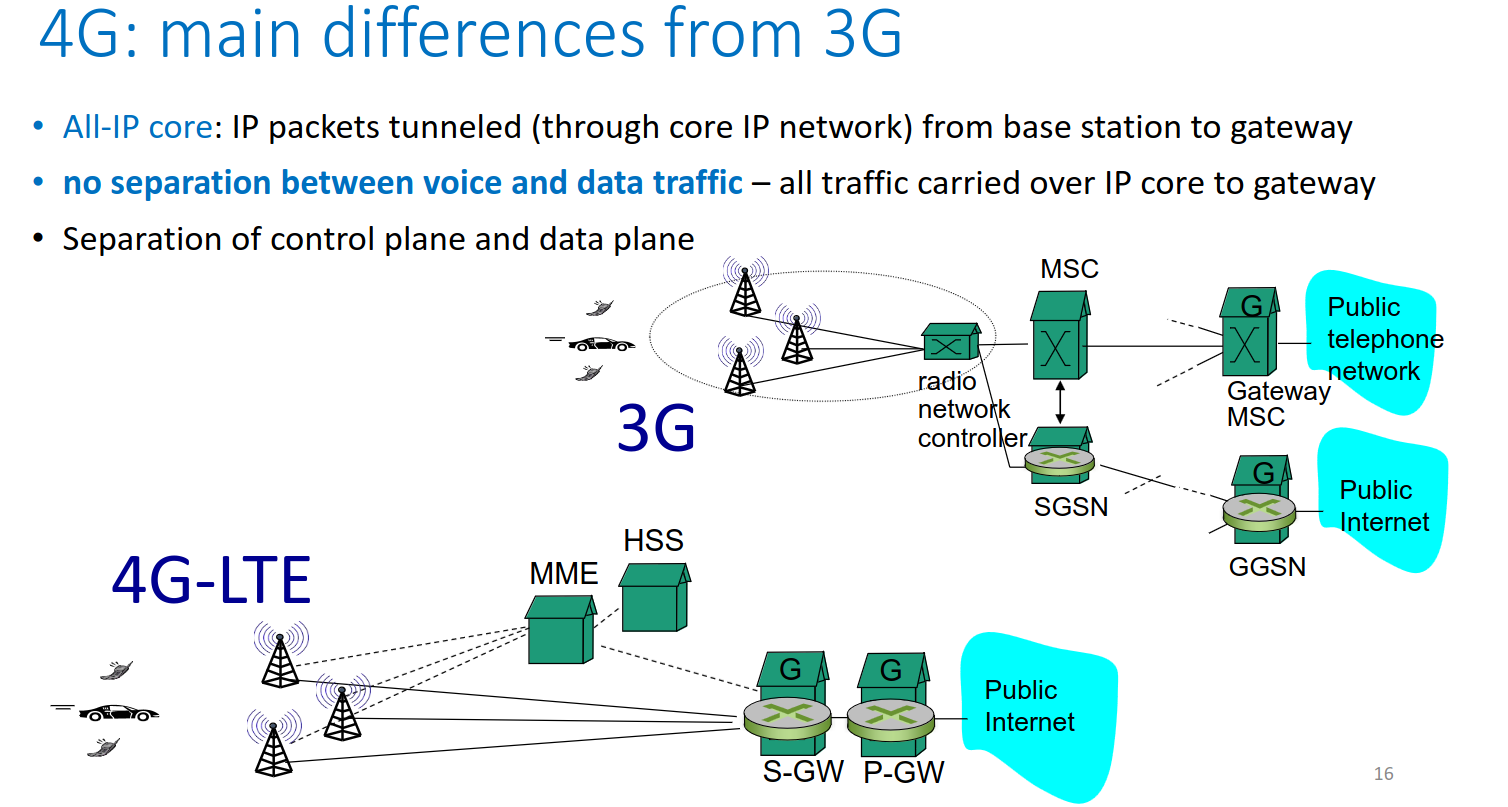
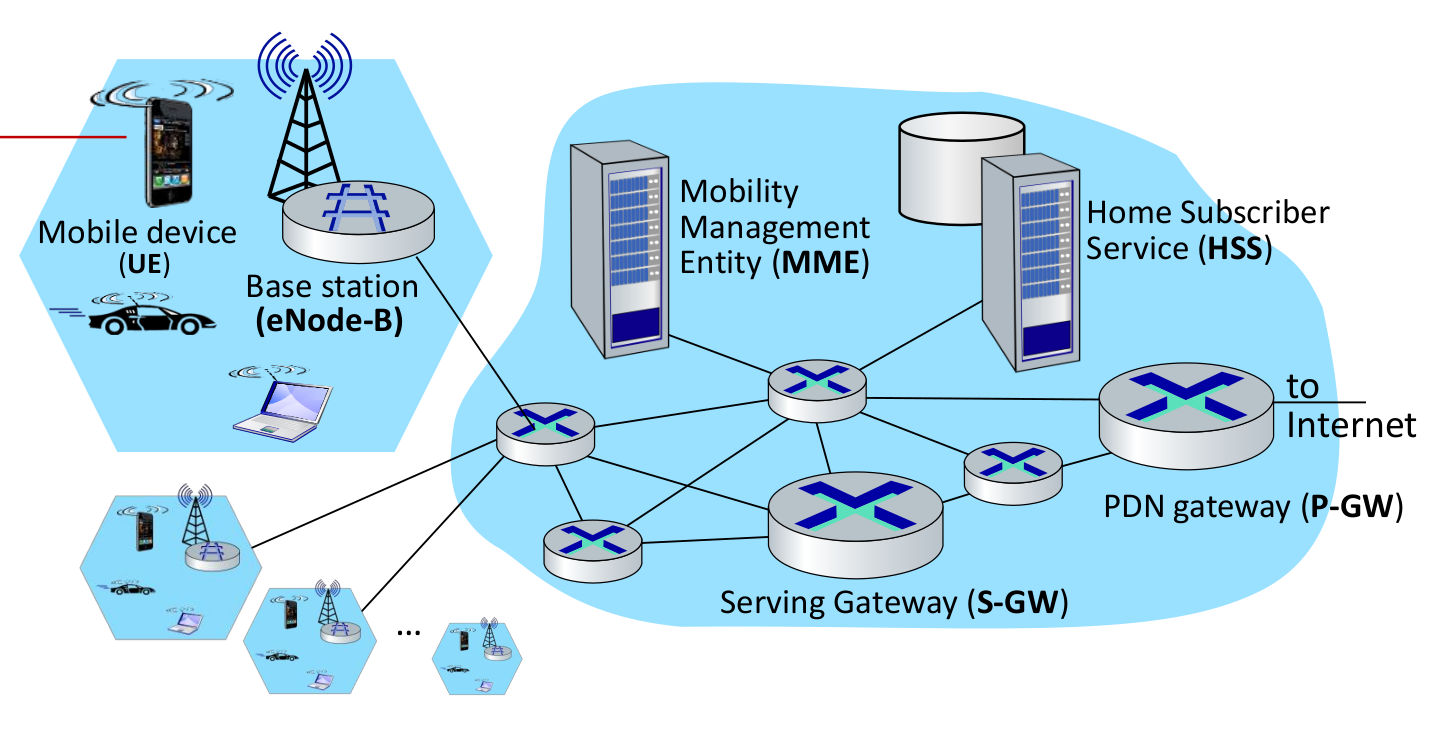
reviewing paganelli

diff --git a/MCPS - Mobile and Cyber Physical Systems/chapters/B/3.tex b/MCPS - Mobile and Cyber Physical Systems/chapters/B/3.tex
@@ -3,7 +3,7 @@
    \centering
    \includegraphics[width=0.45\columnwidth]{images/2g_architecture.png}
    \includegraphics[width=0.45\columnwidth]{images/3g_architecture.png}\\
-   \includegraphics[width=0.45\columnwidth]{images/4g_architecture.png}
+   \includegraphics[width=0.45\columnwidth]{images/4g_architecture_3gcomp.png}
    \includegraphics[width=0.45\columnwidth]{images/5g_architecture.png}
 
    \caption{Mobile Networks architectures}
@@ -13,6 +13,51 @@
 The key point in \textbf{3G} is the introduction of a data service, operating in parallel with voice network, which forced the important modifications to the architecture.
 
 In \textbf{4G} also the voice traffic uses \textit{packet switching}, instead of circuit switching.
+
+\section{4G Focus}
+
+\begin{figure}[htbp]
+   \centering
+   \includegraphics{images/4g_architecture.png}
+   \caption{4G architecture key elements}
+   \label{fig:4g_architecture}
+\end{figure}
+
+\begin{itemize}
+   \item Mobile End devices
+   \item Base station
+   \begin{itemize}
+      \item Creates device-specific IP tunnels from
+      the mobile device to gateways
+      \item At the edge of carrier's network
+   \end{itemize}
+   \item Home Subscriber Server (HSS)
+   \begin{itemize}
+      \item A database that contains all subscriber-related information
+      \item Stores info about mobile devices for which the HSS's network is their ``home network''
+      \item Works with MME in device authentication
+   \end{itemize}
+   \item Mobility Management Entity (MME)
+   \begin{itemize}
+      \item Device authentication (device-to-network, network- to-device) coordinated with mobile home network HSS
+      \item Mobile device management:
+      \begin{itemize}
+         \item Device handover between cells
+         \item Tracking/paging device location
+         \end{itemize}
+      \item Path (tunneling) setup from mobile device to P-GW
+   \end{itemize}
+   \item Serving Gateway (SGW)
+   \begin{itemize}
+      \item Forwards data packets between to and from RAN (Radio Access Network)
+      \item Responsible for inter-enB handover, and provides mobility between 4G and other networks such as between 2G/3G and PG-W
+   \end{itemize}
+   \item Packet Data Network Gateway (PGW)
+   \begin{itemize}
+      \item A gateway to mobile cellular network
+      \item Looks like any other internet router and provides NAT services
+   \end{itemize}
+\end{itemize}
 
 \framedt{Control vs Data plane}{
    \textbf{Control plane} includes routing protocols such as BGP and all the processes which handle and determine how data packets should be forwarded.
@@ -24,13 +69,14 @@ In \textbf{4G} also the voice traffic uses \textit{packet switching}, instead of
 }
 
 
+\section{Mobility}
 \begin{figure}[htbp]
    \centering
    \includegraphics{images/mobility.png}
    \caption{Mobility}
    \label{fig:mobility}
 \end{figure}
-To handle devices' mobility there must be home network to rely onto.
+To handle devices' mobility there must be a home network to rely onto.
 \begin{figure}[htbp]
    \centering
    \includegraphics[width=0.45\columnwidth]{images/homenetwork.png}
@@ -43,8 +89,8 @@ To handle devices' mobility there must be home network to rely onto.
 With respect to the questions posed in the third image in Fig. \ref{fig:homenetwork}, data being send from a device to a mobile one may be routed in three ways.
 \begin{enumerate}
    \item 
-   The first is the canonical routing, using IP addresses and routing tables, but it is not a feasible scenario for billions of devices.
-   \item The other possibility is to rely on the edge of home and visited networks instead.
+   The first is the canonical routing, using IP addresses and routing tables, \ul{but it is not a feasible scenario for billions of devices}.
+   \item The other possibility is to rely on the edge of \textbf{home} and \textbf{visited} networks instead.
    \begin{enumerate}
       \item \textbf{Direct routing}\\
       Sender gets foreign address of mobile, send directly to mobile
@@ -53,5 +99,100 @@ With respect to the questions posed in the third image in Fig. \ref{fig:homenetw
    \end{enumerate}
 \end{enumerate}
 
+We will focus on the second possibility, which is the most common in mobile networks.
+First of all the home network needs to know the current location of the mobile device,
+% which is done by the \textbf{Home Location Register} (HLR) and the \textbf{Visitor Location Register} (VLR).
+so first it associates with the Mobility Management Entity (MME) of the visited network to authenticate the device, which in turn informs the Home Subscriber Server (HSS) of the device's location.
+\begin{figure}[htbp]
+   \centering
+   \includegraphics{images/mobility_homenetwork.png}
+   % \caption{}
+   \label{fig:mobility_homenetwork}
+\end{figure}
 
-\note{Many things are missing here. Refer to the slides or to chapter 7 of the course book (Kurose) for more information.}
+\subsection{Indirect Routing}
+
+\begin{figure}[htbp]
+   \centering
+   \includegraphics{images/mn_indirect.png}
+   \caption{Indirect routing schema}
+   \label{fig:mn_indirect}
+\end{figure}
+
+Once the mobile's location is known, the schema is fairly simple:
+the sender sends the packet to the home network, which forwards it to the visited network, which in turn delivers it to the mobile device, lastly, the packet will be sent back to the sender, either directly or by using the same path.
+
+To implement such solution, the requirements are:
+\begin{itemize}
+   \item Protocol to associate and disassociate a mobile to a visited network
+   \item A protocol to Register the mobile's location in the HSS
+   \item Tunnelling protocol to forward packets between the home and visited networks
+   \begin{itemize}
+      \item The home gateway performs encapsulation and forwarding of the correspondent’s original datagram
+      \item On the receiving side, the gateway router performs decapsulation, NAT translation, and forwarding of the original datagram to the mobile device
+   \end{itemize}
+   
+\end{itemize}
+
+Indirect Routing is inefficient when mobile and sender are in the same network, but allows the mobility of the device to be \textbf{transparent} to the sender: ongoing connections (e.g. TCP) are not interrupted and can be maintained.
+
+\subsection{Direct Routing}
+\begin{figure}[htbp]
+   \centering
+   \includegraphics{images/mn_direct.png}
+   \caption{Direct routing schema}
+   \label{fig:mn_direct}
+\end{figure}
+As displayed in Fig. \ref{fig:mn_direct}, the main difference here is that the sender sends the packet directly to the mobile device, after receiving the foreign address from the home network.
+
+This approach overcomes the inefficiency of the indirect routing, but it requires the sender to know the mobile's location, which may change multiple times, requiring the sender to ask the home network for the new location.
+
+\subsection{Key-tasks in 4G Mobility}
+\begin{figure}[htbp]
+   \centering
+   \includegraphics{images/4g_mobilitytasks.png}
+   \caption{Mobility tasks}
+   \label{fig:4g_mobilitytasks}
+\end{figure}
+
+\section{Handover in the same cellular network}
+\begin{paracol}{2}
+   \begin{figure}[htbp]
+      \centering
+      \includegraphics{images/4g_BSHO1.png}
+      \caption{Handover pt. 1}
+      \label{fig:4g_BSHO1}
+   \end{figure}
+   \switchcolumn
+   \begin{enumerate}
+      \item Current BS decides to perform handover and selects a \textit{target BS}, to whom sends a \texttt{handover request}.
+      \begin{itemize}
+         \item May happen due to a change in the signal strength, cell overloading or whatsoever
+         \item Note that it's the BS that decides to perform the handover, not the mobile device
+         \item \textit{On which criteria is the target BS selected?}
+      \end{itemize}
+      \item Target BS preallocates radio time slots and resources for the mobile device and sends a \texttt{handover ACK} to the current BS, appending info for the mobile device.
+      \item Source BS notifies the device of the new BS using the information received from the target BS.\\
+      From the mobile device's perspective, the handover is not transparent, but it gets completed with this third step.
+      \item Source BS stops sending datagrams to mobile, and forwards incoming ones to the target BS.
+   \end{enumerate}
+\end{paracol}
+
+\begin{paracol}{2}
+   \begin{figure}[htbp]
+      \centering
+      \includegraphics{images/4g_BSHO2.png}
+      \caption{Handover pt. 2}
+      \label{fig:4g_BSHO2}
+   \end{figure}
+   \switchcolumn
+   \begin{enumerate}
+      \setcounter{enumi}{5}
+      \item Target BS informs the MME that it is the new serving BS for the mobile device, which in turn informs the SGW to update the path to the mobile device.
+      \item Now target BS sends an \texttt{ACK} to the source BS, which can release resources and stop forwarding packets.
+      \begin{itemize}
+         \item Shouldn't the target BS wait for an ACK by the MME?
+      \end{itemize}
+      \item Datagrams now flow through the new channel from target BS to SGW.
+   \end{enumerate}
+\end{paracol}

diff --git a/MCPS - Mobile and Cyber Physical Systems/chapters/B/4.tex b/MCPS - Mobile and Cyber Physical Systems/chapters/B/4.tex
@@ -19,7 +19,7 @@ SDN is often referred to as a ``radical new idea of networking''. It has been ma
    \note{This is the most critical aspect}
 \end{enumerate}
 
-\section{Traffic Patterns}
+\section{Motivations and Traffic Patterns}
 Modern distributed applications typically access multiple databases and servers that
 must communicate with each other, creating a lot of
 \textit{``horizontal''} traffic between servers ---in addition to the \textit{``vertical''} client/server one--- which was initially neglectable, but now it is not.
@@ -28,7 +28,12 @@ Unified communications (UC) services are increasingly used within enterprises. M
 information, voice, mobility, audio, web and video traffic, must be \textit{integrated} into a unique service
 delivery platform
 
-TODO
+Increasing use of cloud shifted traffic relegated in enterprise networks to remote clouds, causing unpredictable loads on enterprise routers.
+
+Server virtualization, now a common practice, besides increasing the number of virtual machines (VMs) on a single physical server and corresponding communications, brings east-west traffic due to migration and remote storage access.
+
+Summing up, up to $70\%$ of traffic in datacenters is now East West, and traditional three-tier \textit{access-aggregation-core} network architecture no longer fits the bandwidth traffic requirements.
+
 
 \section{Layering}
 Layering, as it is applied in TCP/IP stack, implies decomposing delivery into fundamental components, allowing independent but compatible innovation at each layer; it revealed itself to be pretty successful, however, \ul{many issues reside in the \textit{Network Control/Management Plane}}.
@@ -43,18 +48,22 @@ SDN helps providing some abstraction through a centralized view of the network.
    \note{Data Plane}
    \item \textbf{Routing} determine route taken by packets from
    source to destination
-   \note{Control Plane}
+   \note{Control Plane\\
+   Traditionally it was implemented \textit{per-router}, with SDN instead is \textit{logically centralized}}
 \end{itemize}
 
-These are the two key tasks. In Fig. a comparison between the tradional and the SDN approaches.
+These are the two key tasks. In Fig. \ref{fig:sdn_planes} a comparison between the tradional and the SDN approaches.
 \begin{figure}[htbp]
    \centering
    \includegraphics[width=0.45\columnwidth]{images/sdn_planes1.png}
    \includegraphics[width=0.45\columnwidth]{images/sdn_planes2.png}
    \caption{Traditional vs SDN}
    \label{fig:sdn_planes}
-\end{figure}
+   \end{figure}
+In Internet early days, \textbf{resiliency} was a key issue, so the network was designed to be decentralized and distributed, with data and control tightly coupled and embedded in the same ---routers--- networking devices.\\
+However, this design does not allow to arbitrarily choose the traffic paths with ease: the only way to do so is to change the link weights, and waiting for a recomputation of the routing tables, which is somewhat far from being considered ``control''.
 
+\section{SDN Architecture}
 \begin{paracol}{2}
    \textbf{Data-plane switches} are fast, simple, commodity switches implementing generalized data-plane forwarding in hardware, and generally provide API for table-based switch control, e.g. \texttt{OpenFlow}.
 
@@ -72,10 +81,22 @@ These are the two key tasks. In Fig. a comparison between the tradional and the 
 \end{paracol}
 
 \newpage
-\section{Data Plane}
+\subsection{Data Plane}
 Resource or infrastructure layer providing a \textit{Forwarding Abstraction} made up of \textbf{forwarding devices} ---without embedded software to make autonomous decisions--- which perform the transport and processing of data according to decisions made by the SDN control plane.
 
-Inside the routers there is an \textbf{OpenFlow} \textbf{flow\footnotemark[1] table}.
+\begin{paracol}{2}
+   
+   Inside the routers there is an \textbf{OpenFlow} \textbf{flow\footnotemark[1] table}.
+   The pattern implemented is called \ul{\textit{``match+action''}} and is used to define the rules for packet processing. FOr each packet bits are analysed and compared to the rules in the flow table, when a match is found, the corresponding action is taken.
+   \switchcolumn
+   \begin{figure}[htbp]
+   \centering
+   \includegraphics{images/openflow_table.png}
+   \caption{OpenFlow table}
+   \label{fig:openflow_table}
+   \end{figure}
+\end{paracol}
+
 \begin{paracol}{2}
    Some simple forwarding rules are defined:
    \begin{itemize}

diff --git a/MCPS - Mobile and Cyber Physical Systems/chapters/B/1.tex b/MCPS - Mobile and Cyber Physical Systems/chapters/B/1.tex
@@ -3,7 +3,7 @@ Wireless Networks are composed of \textbf{hosts}, which are end-system devices t
 applications, typically battery powered.
 \note{Recall that \ul{\textit{wireless} $\neq$ \textit{mobility}}}
 
-In general Wireless Networks may be based on the interaction \textit{hosts} $longrightarrow$ \textit{base station} ---or access point--- or \textit{hosts} $longrightarrow$ \textit{hosts}.
+In general Wireless Networks may be based on the interaction \textit{hosts} $\longrightarrow$ \textit{base station} ---or access point--- or \textit{hosts} $\longrightarrow$ \textit{hosts}.
 The two resulting functioning modes are called \textit{Infrastructure} and \textit{Ad hoc networking}.
 
 \begin{paracol}{2}

diff --git a/MCPS - Mobile and Cyber Physical Systems/chapters/B/2.tex b/MCPS - Mobile and Cyber Physical Systems/chapters/B/2.tex
@@ -8,4 +8,9 @@
    All these standards \texttt{use \texttt{CSMA/CA} for multiple access}, and have base-station and ad-hoc network versions
 \end{figure}
 
+IEEE 802.11 standards refer to the \textit{Physical} Layer.
+In case of an AP (Access Point), every station must channel its communication through the AP to talk to any other. Otherwise, in an \textit{Ad-Hoc} network, stations can communicate directly with each other.
+
 TODO
+
+\note{TODO non ci sono domande su questa cose nel pdf}
